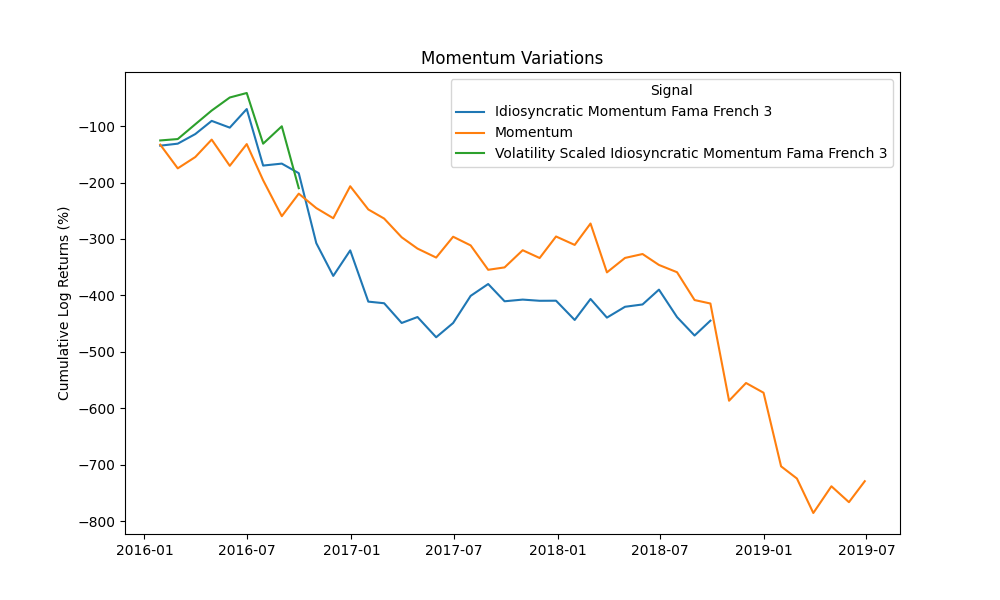
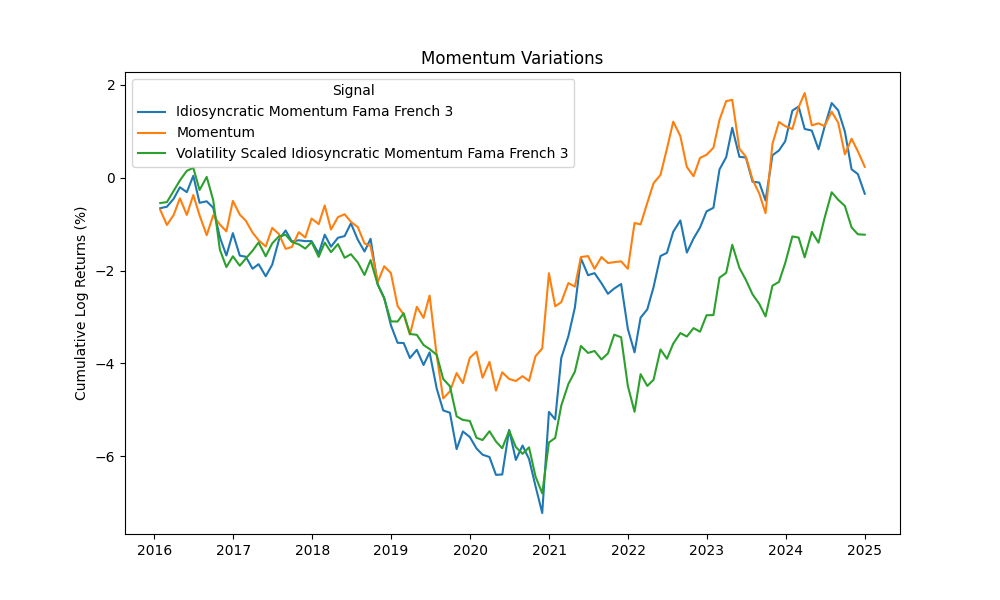
Finished experiment 3?

diff --git a/research/experiments/experiment_3.py b/research/experiments/experiment_3.py
@@ -1,9 +1,5 @@
 import polars as pl
 import datetime as dt
-from research.signals import get_signal, construct_signals
-from research.filters import get_filter, apply_filters
-from research.alpha_constructors import get_alpha_constructor, construct_alphas
-from research.portfolios import construct_quantile_portfolios
 from research.returns import construct_returns_from_weights
 import great_tables as gt
 from pathlib import Path
@@ -49,9 +45,9 @@ for signal_name in signal_names:
             f"weights/{signal_weights_name}/{signal_weights_name}_*.parquet"
         )
         .filter(pl.col("date").is_between(start, end))
-        # .with_columns(
-        #     pl.col('weight').truediv(pl.col('weight').sum()).over('date') # unit leverage
-        # )
+        .with_columns(
+            pl.col('weight').truediv(pl.col('weight').abs().sum()).over('date') # unit leverage
+        )
         .collect()
     )
 
@@ -117,7 +113,7 @@ cumulative_returns = (
     .with_columns(pl.col("return").log1p().cum_sum().mul(100).over("signal"))
     .rename({"date": "Date", "return": "Return", "signal": "Signal"})
 )
-print(cumulative_returns)
+
 plt.figure(figsize=(10, 6))
 
 sns.lineplot(cumulative_returns, x="Date", y="Return", hue="Signal")
